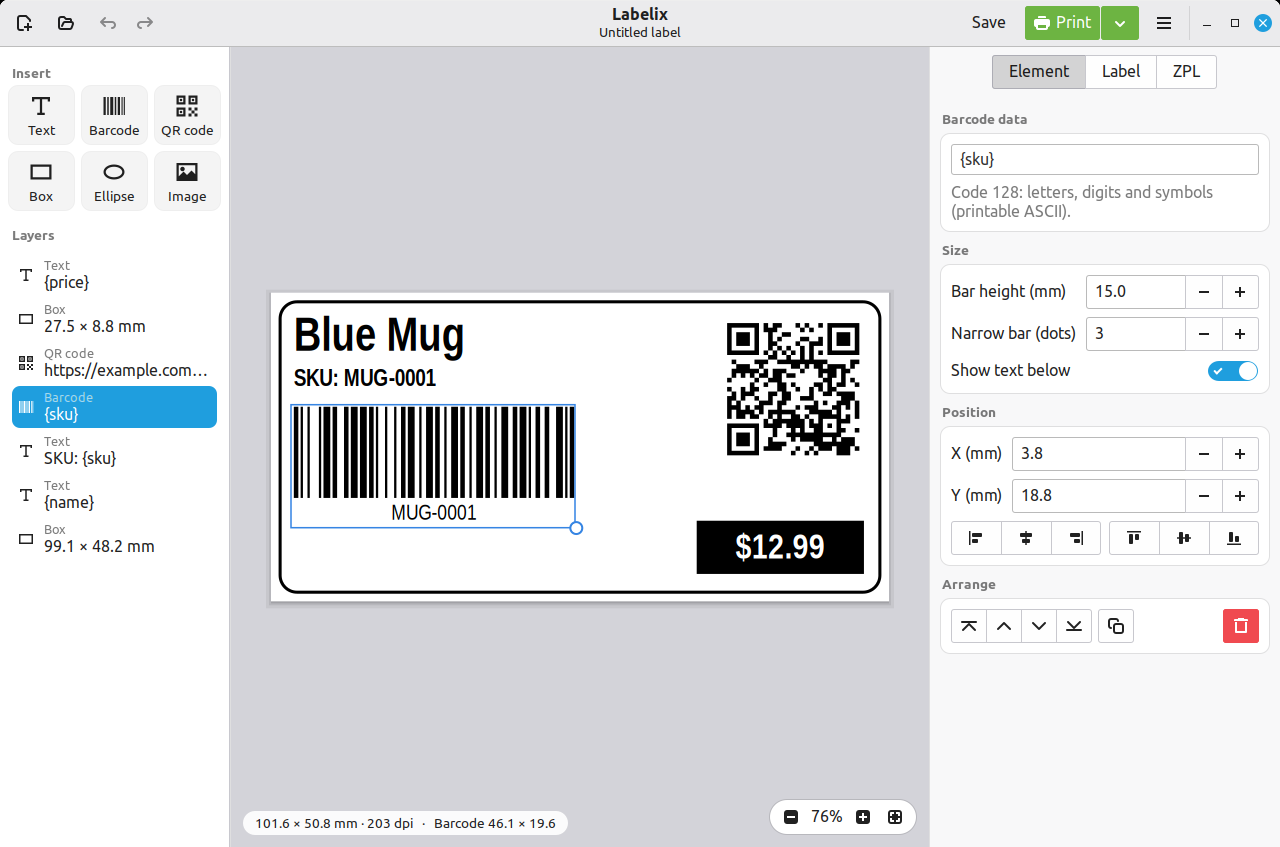
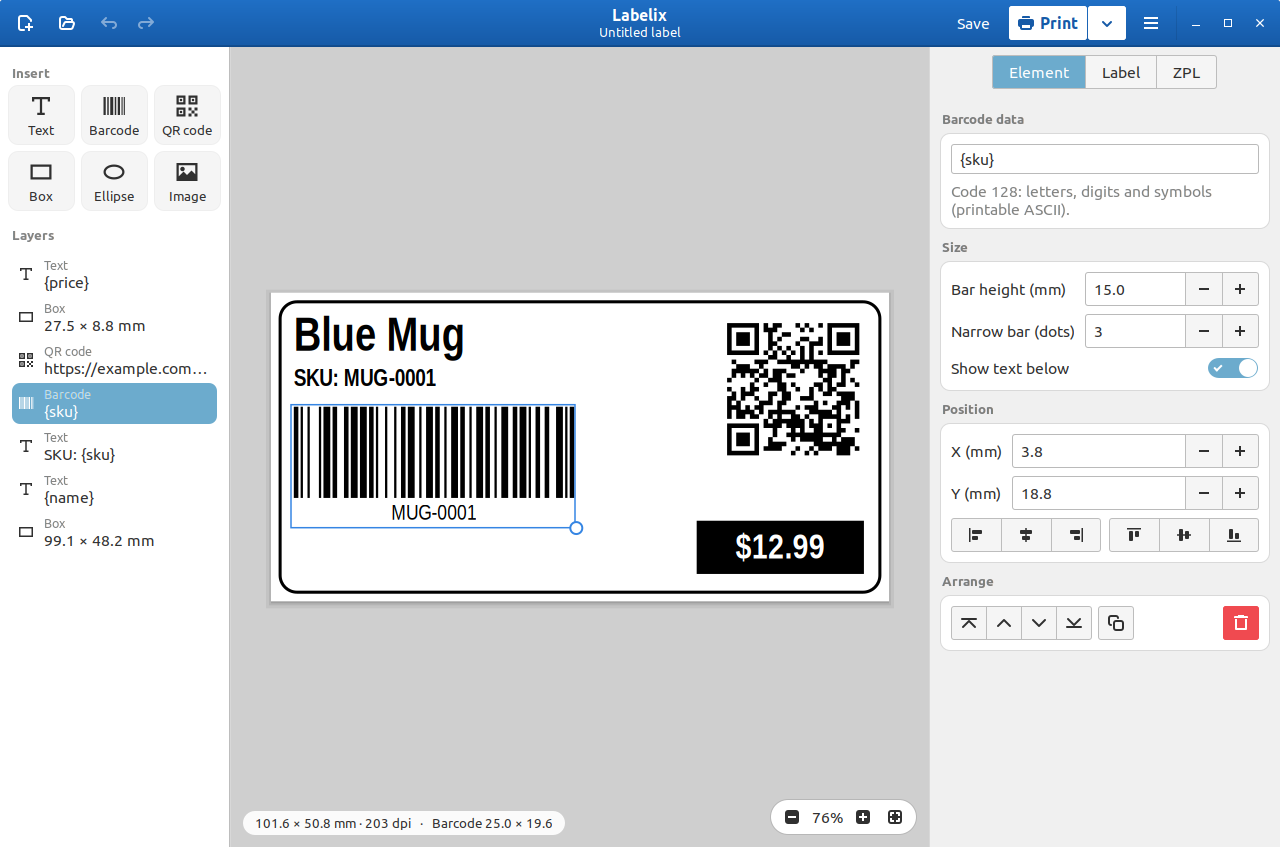
Labelix 0.1.1: new screenshots with the blue header
Retake the README screenshots so they show the blue header bar, and bump
the version to 0.1.1.

diff --git a/labelix/__init__.py b/labelix/__init__.py
@@ -1,3 +1,3 @@
 APP_ID = "org.labelix.Labelix"
 APP_NAME = "Labelix"
-__version__ = "0.1.0"
+__version__ = "0.1.1"

diff --git a/README.md b/README.md
@@ -45,7 +45,7 @@ Labelix designs labels on any Linux desktop and sends real ZPL to the printer.
 [releases page](https://github.com/thuutien/labelix/releases/latest):
 
 ```bash
-sudo apt install ./labelix_0.1.0_all.deb
+sudo apt install ./labelix_0.1.1_all.deb
 ```
 
 **Arch / Manjaro**: build from `packaging/arch/PKGBUILD` with `makepkg -si`.
